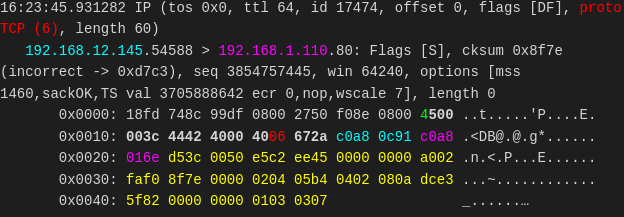
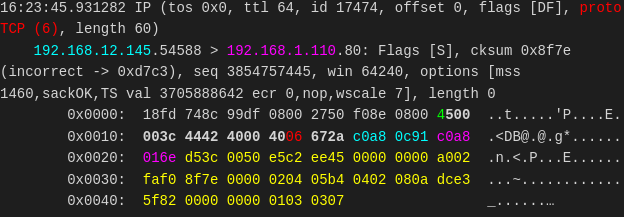
Fix README.md DAW/DPL/T01

diff --git a/DAW/DPL/T01/README.md b/DAW/DPL/T01/README.md
@@ -290,36 +290,32 @@
     ![Segmento / Datagrama de Usuario (Diagrama)](https://raw.githubusercontent.com/FJrodafo/University/main/DAW/DPL/T01/Assets/Diagrams/Exported/Segmento_-_Datagrama_de_Usuario.drawio.svg "Segmento / Datagrama de Usuario")
 ### Datagrama IPv4 (Segmento TCP)
 
-Captura con el sniffer `tcpdump` de linux un datagrama IPv4
+Captura con el sniffer `tcpdump` un datagrama IPv4:
 
 ```shell
 tcpdump -c 1 -XX -n -vv dst port 80 & curl 192.168.1.100
 ```
 
-`tcpdump` Es el sniffer.
+* `tcpdump` Es el sniffer.
 
-`-c 1` Captura solo 1 paquete y luego `tcpdump` termina (útil para no inundar la salida).
+    * `-c 1` Captura solo 1 paquete y luego `tcpdump` termina (útil para no inundar la salida).
+    * `-XX` Muestra el contenido del paquete en hex + ASCII. `-X` muestra carga útil (payload) en hex+ASCII, `-xx` añade también la cabecera de enlace (dependiendo de la versión ambas formas pueden variar). En la práctica `-XX` te da una vista completa del frame + payload.
+    * `-n` No resuelve nombres: muestra IPs y puertos numéricos en vez de intentar resolver hostnames/servicios. Esto acelera la salida y evita ruido.
+    * `-vv` Modo muy verboso: imprime más detalles (flags TCP, números de secuencia, opciones, etc.). `-v`, `-vv`, `-vvv` aumentan la verbosidad.
+    * `dst port 80` Filtro BPF: solo paquetes cuyo puerto de destino sea 80. Es decir, paquetes dirigidos a puerto 80 (normalmente peticiones HTTP a un servidor).
+    * `&` Operador del shell: lanza el proceso anterior (`tcpdump ...`) en segundo plano y la shell continua inmediatamente con el siguiente comando.
+* `curl 192.168.1.100` Hace una petición HTTP GET a `http://192.168.1.100/` y vuelca la respuesta por stdout (la página, generalmente HTML).
 
-`-XX` Muestra el contenido del paquete en hex + ASCII. `-X` muestra carga útil (payload) en hex+ASCII, `-xx` añade también la cabecera de enlace (dependiendo de la versión ambas formas pueden variar). En la práctica `-XX` te da una vista completa del frame + payload.
-
-`-n` No resuelve nombres: muestra IPs y puertos numéricos en vez de intentar resolver hostnames/servicios. Esto acelera la salida y evita ruido.
-
-`-vv` Modo muy verboso: imprime más detalles (flags TCP, números de secuencia, opciones, etc.). `-v`, `-vv`, `-vvv` aumentan la verbosidad.
-
-`dst port 80` Filtro BPF: solo paquetes cuyo puerto de destino sea 80. Es decir, paquetes dirigidos a puerto 80 (normalmente peticiones HTTP a un servidor).
-
-`&` Operador del shell: lanza el proceso anterior (`tcpdump ...`) en segundo plano y la shell continua inmediatamente con el siguiente comando.
-
-`curl 192.168.1.100` Hace una petición HTTP GET a `http://192.168.1.100/` y vuelca la respuesta por stdout (la página, generalmente HTML). `curl` por defecto usa el puerto 80 si no se indica otro y hace GET salvo que especifiques otra cosa.
+    * `curl` (Client URL) en Linux permite transferir datos hacia o desde un servidor utilizando diversos protocolos como HTTP, HTTPS, FTP, entre otros, actuando como un cliente de red desde la línea de comandos. Por defecto usa el puerto 80 si no se indica otro y hace GET salvo que especifiques otra cosa.
 
 ```
 16:23:45.931282 IP (tos 0x0, ttl 64, id 17474, offset 0, flags [DF], proto TCP (6), length 60)
     192.168.12.145.54588 > 192.168.1.110.80: Flags [S], cksum 0x8f7e (incorrect -> 0xd7c3), seq 3854757445, win 64240, options [mss 1460,sackOK,TS val 3705888642 ecr 0,nop,wscale 7], length 0
-        0x0000: 18fd 748c 99df 0800 2750 f08e 0800 4500 ..t.....'P....E.
-        0x0010: 003c 4442 4000 4006 672a c0a8 0c91 c0a8 .<DB@.@.g*......
-        0x0020: 016e d53c 0050 e5c2 ee45 0000 0000 a002 .n.<.P...E......
-        0x0030: faf0 8f7e 0000 0204 05b4 0402 080a dce3 ...~............
-        0x0040: 5f82 0000 0000 0103 0307                _......…
+        0x0000:  18fd 748c 99df 0800 2750 f08e 0800 4500  ..t.....'P....E.
+        0x0010:  003c 4442 4000 4006 672a c0a8 0c91 c0a8  .<DB@.@.g*......
+        0x0020:  016e d53c 0050 e5c2 ee45 0000 0000 a002  .n.<.P...E......
+        0x0030:  faf0 8f7e 0000 0204 05b4 0402 080a dce3  ...~............
+        0x0040:  5f82 0000 0000 0103 0307                 _......…
 ```
 
 ![Datagrama IPv4 TCP (Captura)](https://raw.githubusercontent.com/FJrodafo/University/main/DAW/DPL/T01/Assets/Images/Datagrama_IPv4_TCP.png "Datagrama IPv4 TCP")
@@ -328,8 +324,8 @@ tcpdump -c 1 -XX -n -vv dst port 80 & curl 192.168.1.100
 
 - **Verde**: Versión del datagrama IP.
 - **Rojo**: Protocolo incluido en la carga útil del datagrama IP (payload) que en la imagen tiene el valor 06 que se corresponde con TCP (para UDP el valor sería 11).
-- **Azul**: Dirección IP de origen, es decir, la máquina que envía el datagrama IP.
-- **Rosa**: Dirección IP de destino, es decir, el host al que se destina el datagrama IP.
+- **Cyan**: Dirección IP de origen, es decir, la máquina que envía el datagrama IP.
+- **Magenta**: Dirección IP de destino, es decir, el host al que se destina el datagrama IP.
 - **Amarillo**: Payload que en este caso es todo un segmento TCP.
 - **Negrita**: El resto de campos de una cabecera IPv4.
 
@@ -337,44 +333,40 @@ tcpdump -c 1 -XX -n -vv dst port 80 & curl 192.168.1.100
 
 ![Segmento TCP (Diagrama)](https://raw.githubusercontent.com/FJrodafo/University/main/DAW/DPL/T01/Assets/Diagrams/Exported/Segmento_TCP.drawio.svg "Segmento TCP")
 
-- **Azul**: El puerto origen del segmento TCP se corresponde con los dos primeros octetos de dicho segmento, es decir, 0xd53c (54588).
-- **Rosa**: El puerto destino del segmento TCP se corresponde con los dos siguientes octetos, es decir, 0x0050 (80).
+- **Cyan**: El puerto origen del segmento TCP se corresponde con los dos primeros octetos de dicho segmento, es decir, 0xd53c (54588).
+- **Magenta**: El puerto destino del segmento TCP se corresponde con los dos siguientes octetos, es decir, 0x0050 (80).
 - **Amarillo** (La cabecera TCP ocupa el número de octetos = 4 * longitud_cabecera): La longitud de cabecera son los 4 bits más significativos del octeto número 13 de la cabecera, es decir, 0xa0 = 1010000, el valor decimal de 1010b = 10, por tanto, la cabecera TCP ocupa 4 * 10 = 40 octetos, el resto será el payload del segmento con los datos de la aplicación, en este caso sale 0 porque este segmento no transporta datos de la aplicación ya que se trata del primer segmento que inicia una conexión TCP con el flag SYN activado.
 
 ### Datagrama IPv4 (Datagrama de Usuario UDP)
 
-Captura con el sniffer `tcpdump` de una solicitud DNS que utiliza el protocolo UDP con destino al puerto 53.
+Captura con el sniffer `tcpdump` una solicitud DNS que utiliza el protocolo UDP con destino al puerto 53:
 
 ```shell
 tcpdump -c 1 -XX -n -vv udp dst port 53 & dig www.angelmelchor.pro
 ```
 
-`tcpdump` Es el sniffer.
+* `tcpdump` Es el sniffer.
 
-`-c 1` Captura solo 1 paquete y luego `tcpdump` termina (útil para no inundar la salida).
+    * `-c 1` Captura solo 1 paquete y luego `tcpdump` termina (útil para no inundar la salida).
+    * `-XX` Muestra el contenido del paquete en hex + ASCII. `-X` muestra carga útil (payload) en hex+ASCII, `-xx` añade también la cabecera de enlace (dependiendo de la versión ambas formas pueden variar). En la práctica `-XX` te da una vista completa del frame + payload.
+    * `-n` No resuelve nombres DNS. Muestra IPs numéricas. Evita retrasos por resolución inversa.
+    * `-vv` Modo muy verboso: imprime más detalles (decodificación del DNS cuando sea posible). `-v`, `-vv`, `-vvv` aumentan la verbosidad.
+    * `udp dst port 53` Filtro BPF: solo paquetes UDP cuyo puerto de destino sea 53, es decir, paquetes dirigidos hacia un servidor DNS.
+    * `&` Operador del shell: lanza el proceso anterior (`tcpdump ...`) en segundo plano y la shell continua inmediatamente con el siguiente comando.
+* `dig www.angelmelchor.pro` Ejecuta una consulta DNS (por defecto usa UDP hacia el servidor DNS configurado en `/etc/resolv.conf`) para resolver `www.angelmelchor.pro`.
 
-`-XX` Muestra el contenido del paquete en hex + ASCII. `-X` muestra carga útil (payload) en hex+ASCII, `-xx` añade también la cabecera de enlace (dependiendo de la versión ambas formas pueden variar). En la práctica `-XX` te da una vista completa del frame + payload.
-
-`-n` No resuelve nombres DNS. Muestra IPs numéricas. Evita retrasos por resolución inversa.
-
-`-vv` Modo muy verboso: imprime más detalles (decodificación del DNS cuando sea posible). `-v`, `-vv`, `-vvv` aumentan la verbosidad.
-
-`udp dst port 53` Filtro BPF: solo paquetes UDP cuyo puerto de destino sea 53, es decir, paquetes dirigidos hacia un servidor DNS.
-
-`&` Operador del shell: lanza el proceso anterior (`tcpdump ...`) en segundo plano y la shell continua inmediatamente con el siguiente comando.
-
-`dig www.angelmelchor.pro` Ejecuta una consulta DNS (por defecto usa UDP hacia el servidor DNS configurado en `/etc/resolv.conf`) para resolver `www.angelmelchor.pro`.
+    * `dig` (Domain Information Groper) en Linux se utiliza para consultar a servidores del Sistema de Nombres de Dominio (DNS) y obtener información sobre dominios y direcciones IP.
 
 ```
 08:25:48.081970 IP (tos 0x0, ttl 64, id 1139, offset 0, flags [none], proto UDP (17), length 89)
     192.168.12.145.47985 > 8.8.8.8.53: [bad udp cksum 0xdd9f -> 0xffb5!] 21136+ [1au] A? www.angelmelchor.pro. ar: . OPT UDPsize=1232 [COOKIE 767b0baa1a5b968c] (61)
-        0x0000: 18fd 748c 99df 0800 2750 f08e 0800 4500 ..t.....'P....E.
-        0x0010: 0059 0473 0000 4011 98d8 c0a8 0c91 0808 .Y.s..@.........
-        0x0020: 0808 bb71 0035 0045 dd9f 5290 0120 0001 ...q.5.E..R.....
-        0x0030: 0000 0000 0001 0377 7777 0c61 6e67 656c .......www.angel
-        0x0040: 6d65 6c63 686f 7203 7072 6f00 0001 0001 melchor.pro.....
-        0x0050: 0000 2904 d000 0000 0000 0c00 0a00 0876 ..)............v
-        0x0060: 7b0b aa1a 5b96 8c                       {...[..
+        0x0000:  18fd 748c 99df 0800 2750 f08e 0800 4500  ..t.....'P....E.
+        0x0010:  0059 0473 0000 4011 98d8 c0a8 0c91 0808  .Y.s..@.........
+        0x0020:  0808 bb71 0035 0045 dd9f 5290 0120 0001  ...q.5.E..R.....
+        0x0030:  0000 0000 0001 0377 7777 0c61 6e67 656c  .......www.angel
+        0x0040:  6d65 6c63 686f 7203 7072 6f00 0001 0001  melchor.pro.....
+        0x0050:  0000 2904 d000 0000 0000 0c00 0a00 0876  ..)............v
+        0x0060:  7b0b aa1a 5b96 8c                        {...[..
 ```
 
 ![Datagrama IPv4 UDP (Captura)](https://raw.githubusercontent.com/FJrodafo/University/main/DAW/DPL/T01/Assets/Images/Datagrama_IPv4_UDP.png "Datagrama IPv4 UDP")
@@ -383,8 +375,8 @@ tcpdump -c 1 -XX -n -vv udp dst port 53 & dig www.angelmelchor.pro
 
 - **Verde**: Versión del datagrama IP.
 - **Rojo**: Protocolo incluido en la carga útil del datagrama IP (payload) que en la imagen tiene el valor 11 que se corresponde con UDP (para TCP el valor sería 06).
-- **Azul**: Dirección IP de origen, es decir, la máquina que envía el datagrama IP.
-- **Rosa**: Dirección IP de destino, es decir, el host al que se destina el datagrama IP.
+- **Cyan**: Dirección IP de origen, es decir, la máquina que envía el datagrama IP.
+- **Magenta**: Dirección IP de destino, es decir, el host al que se destina el datagrama IP.
 - **Amarillo**: Payload que en este caso es todo un Datagrama de Usuario UDP.
 - **Negrita**: El resto de campos de una cabecera IPv4.
 
@@ -392,8 +384,8 @@ tcpdump -c 1 -XX -n -vv udp dst port 53 & dig www.angelmelchor.pro
 
 ![Datagrama de Usuario UDP (Diagrama)](https://raw.githubusercontent.com/FJrodafo/University/main/DAW/DPL/T01/Assets/Diagrams/Exported/Datagrama_de_Usuario_UDP.drawio.svg "Datagrama de Usuario UDP")
 
-- **Azul**: El puerto origen del Datagrama de Usuario UDP se corresponde con los dos primeros octetos de dicho segmento, es decir, 0xbb71 (47985).
-- **Rosa**: El puerto destino del Datagrama de Usuario UDP se corresponde con los dos siguientes octetos, es decir, 0x0035 (53).
+- **Cyan**: El puerto origen del Datagrama de Usuario UDP se corresponde con los dos primeros octetos de dicho segmento, es decir, 0xbb71 (47985).
+- **Magenta**: El puerto destino del Datagrama de Usuario UDP se corresponde con los dos siguientes octetos, es decir, 0x0035 (53).
 - **Amarillo**: Todo el contenido que se pasará a la aplicación que escucha en el puerto 53 de la máquina destino.
 
 <link rel="stylesheet" href="./../../../README.css">
